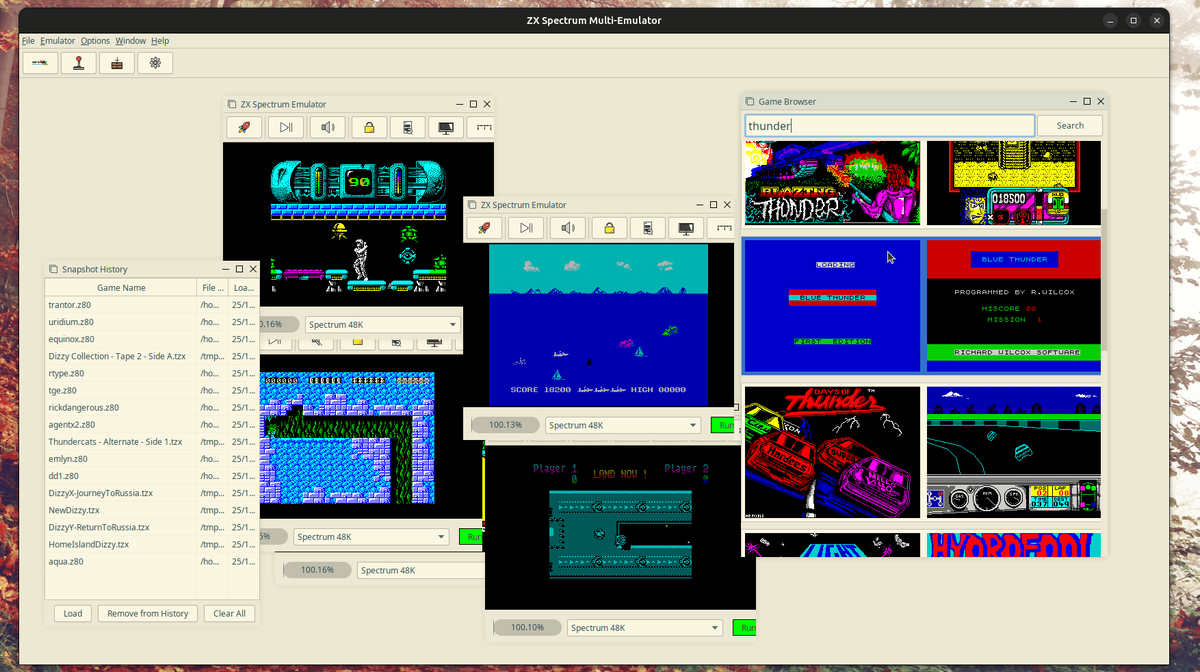
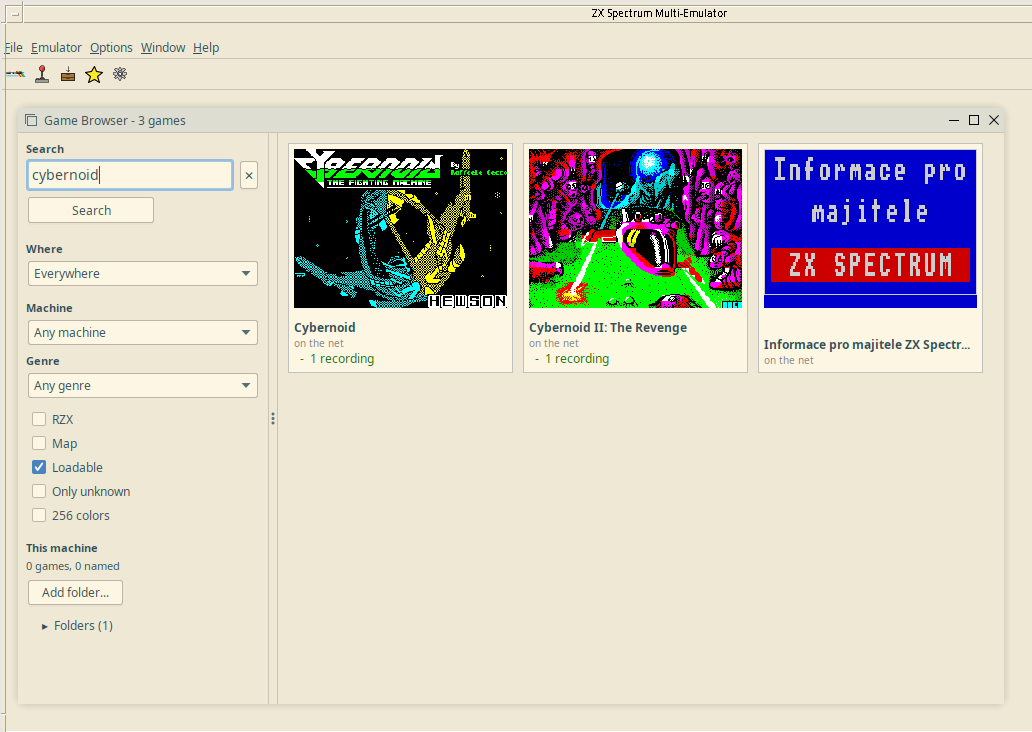
Las fotos que habían quedado de una versión anterior, sacadas otra vez
El browser era el de antes de la galería y de los filtros, y los pokes los de
antes de que lo aplicado fuera una sección de la misma ventana. La portada y el
escritorio mostraban un gif viejo: ahora es el escritorio de hoy llenándose.

diff --git a/doc/wiki/Games-Catalogue-and-Library.md b/doc/wiki/Games-Catalogue-and-Library.md
@@ -2,6 +2,9 @@
 
 ![The game browser](https://raw.githubusercontent.com/fpetrola/oozx/main/doc/wiki/img/game-browser.png)
 
+*Searching ZXInfo from inside the emulator: what came back, each with its own loading screen, whether it
+has a recording, and the filters down the left.*
+
 ## The catalogue, inside the emulator
 
 `Emulator → Game Browser` (Ctrl+B) searches [ZXInfo.dk](https://zxinfo.dk) — the whole ZXDB, from the
@@ -20,8 +23,6 @@ name that says "alternate", a heavy one for anything under `/denied/`. The machi
 hardware block if it has one, else from the name, else it is a 48K. Titles the archive is not allowed to
 serve turned out to be in TOSEC all along, and the ZXInfo entry already said in which archive and with which
 MD5 — so those load too.
-
-![The game details window](https://raw.githubusercontent.com/fpetrola/oozx/main/doc/wiki/img/game-details.png)
 
 **Details** is nine tabs: General, Technical, Publishers, Authors, Description, Screenshots, Game map,
 Releases, Downloads.
@@ -59,6 +60,9 @@ modification, *Apply* and *Clear*, and un-applying puts the original bytes back.
 remembered per machine and comes back with the session.
 
 ![The pokes window](https://raw.githubusercontent.com/fpetrola/oozx/main/doc/wiki/img/pokes.png)
+
+*Manic Miner's cheats, each saying what it writes and where. What you switch on moves to the "Applied"
+section of the same window, and un-applying puts the original bytes back.*
 
 ## Favourites
 

diff --git a/doc/wiki/Getting-Started.md b/doc/wiki/Getting-Started.md
@@ -23,7 +23,7 @@ it hashes the model in under a second and skips the work otherwise. See [The Gen
 
 ## The first minutes
 
-![The desktop with several machines, the game browser and the snapshot history](https://raw.githubusercontent.com/fpetrola/oozx/main/doc/wiki/img/desktop-overview.png)
+![Three machines at three speeds](https://raw.githubusercontent.com/fpetrola/oozx/main/doc/wiki/img/desk-tiled.png)
 
 1. **A machine.** `Emulator → New` (Ctrl+N) opens one. The combo in its status bar says which model it is;
    change it there and the machine becomes that machine. The window is the machine — not a picture of one:

diff --git a/doc/wiki/Home.md b/doc/wiki/Home.md
@@ -2,7 +2,7 @@
 
 **A ZX Spectrum emulation environment, object-oriented all the way down to the Z80.**
 
-![Several Spectrums, the game browser and the snapshot history on one desktop](https://raw.githubusercontent.com/fpetrola/oozx/main/doc/zxenv2.gif)
+![A desk filling up: two machines and the keyboard window](https://raw.githubusercontent.com/fpetrola/oozx/main/doc/wiki/img/desk-now.gif)
 
 A desktop where you run as many Spectrums as you like, plug real hardware into them by hand, pull games
 straight from the catalogue, and run them at hundreds of times real time. Underneath, a machine model made

diff --git a/doc/wiki/The-Desktop.md b/doc/wiki/The-Desktop.md
@@ -3,8 +3,6 @@
 One window holds a desk. Everything on it — a Spectrum, a cassette deck, a disk interface, the settings —
 is a window on that desk, and where a window *is* means something.
 
-![The desktop: several machines, the browser, the snapshot history](https://raw.githubusercontent.com/fpetrola/oozx/main/doc/zxenv1.gif)
-
 ![Three machines at once, at three different speeds](https://raw.githubusercontent.com/fpetrola/oozx/main/doc/wiki/img/desk-tiled.png)
 
 *Three Spectrums tiled on one desk: a bare 48K at the BASIC prompt doing 100 %, Jet Set Willy in 256 colours
